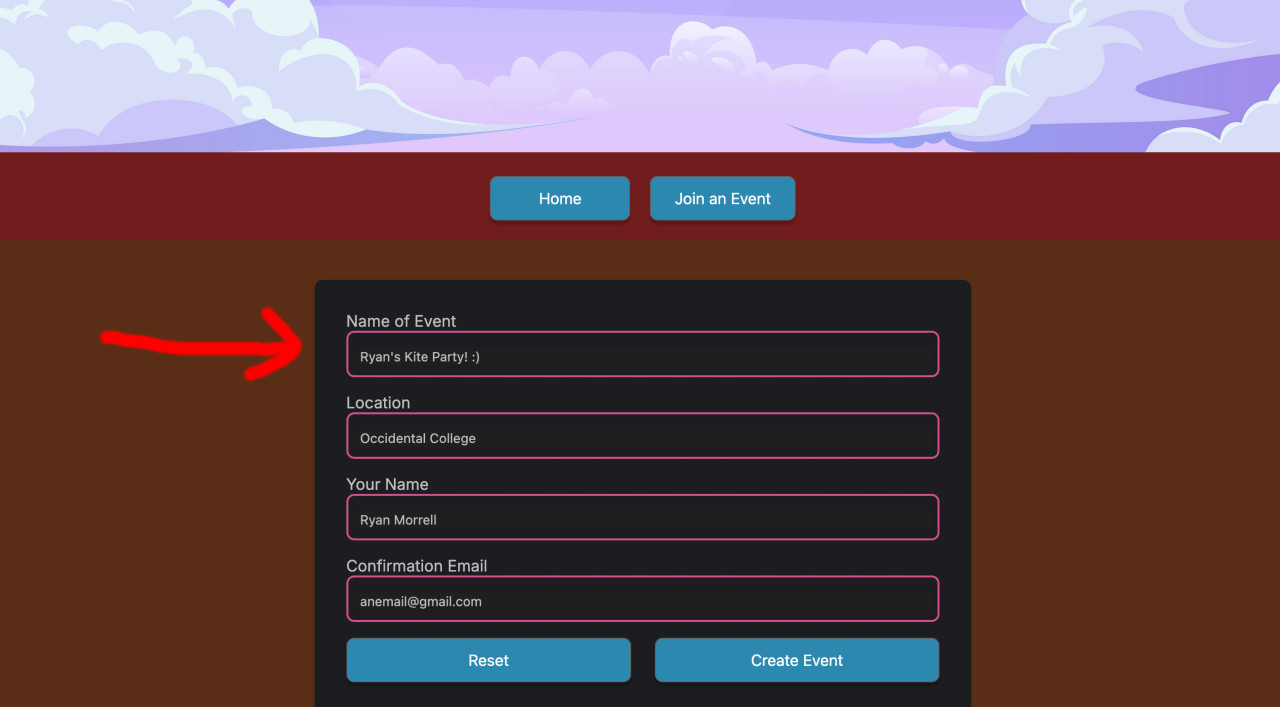
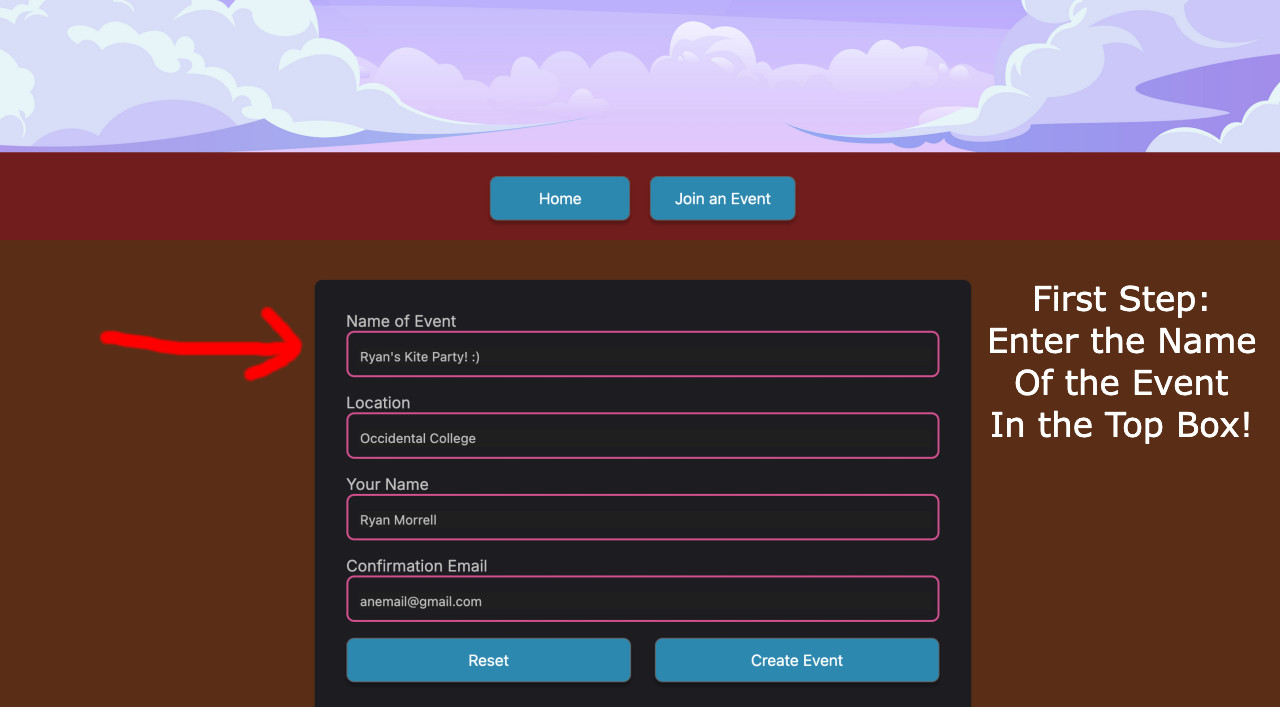
rough draft of self help page

Changed region(s): [[0.75, 0.4045, 1.0, 0.6223]]

diff --git a/frequent-fliers-html/help.html b/frequent-fliers-html/help.html
@@ -38,8 +38,9 @@
     </div>
 
 <h2 id="p1">For Hosting an Event:</h2>
-<img class="small-image" src="updatednameofevent.jpg" alt="Instructing the user to enter the name of the event">
-<img class="small-image" src="updatedlocation.png" alt="Instructing the user to enter the location of the event">
-
+<img class="small-image" src="nameofevent.jpg" alt="Instructing the user to enter the name of the event">
+<img class="small-image" src="location.png" alt="Instructing the user to enter the location of the event">
+<img class="small-image" src="yourname.png" alt="Instructing the user to enter their name">
+<img class="small-image" src="confirmemailandevent.png" alt="Instructing the user to enter a valid email and create the event">
 
 <p>Website Developed By: Cael McDermott, Jake Moore, Melissa Dodson, and Ryan Morrell.</p>
